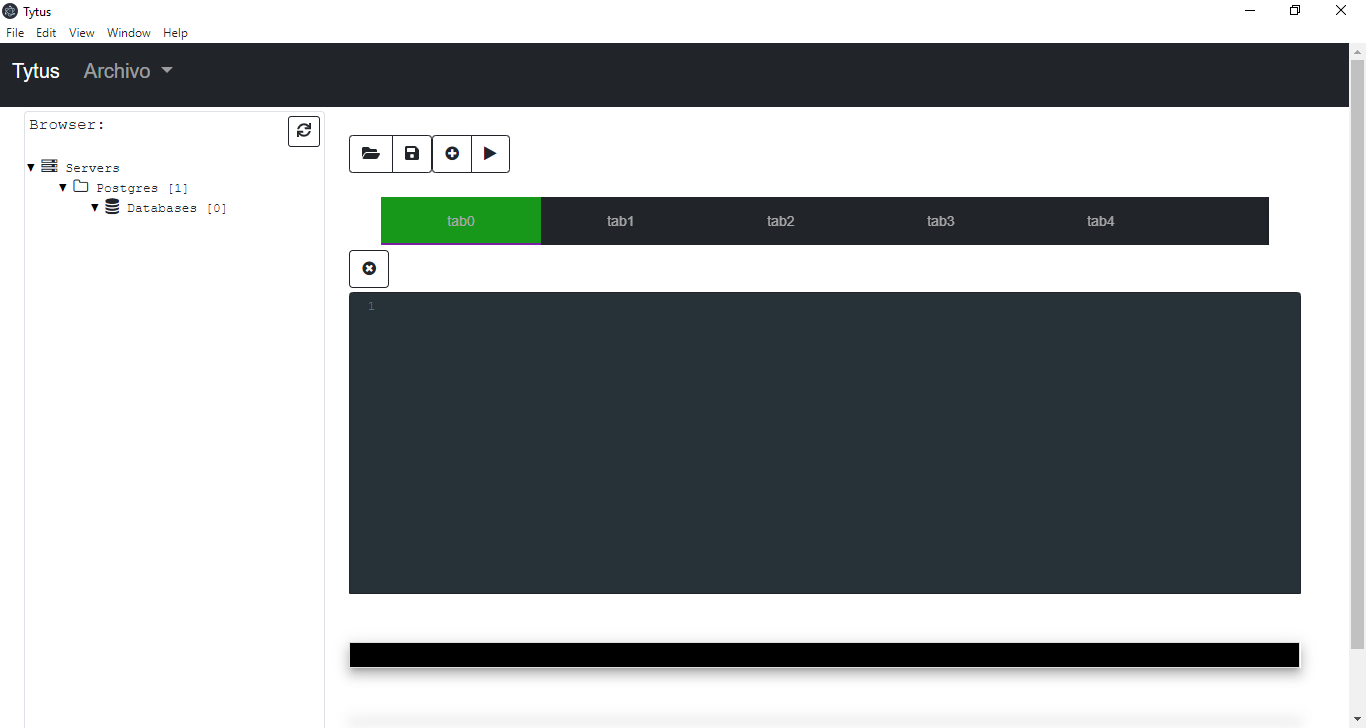
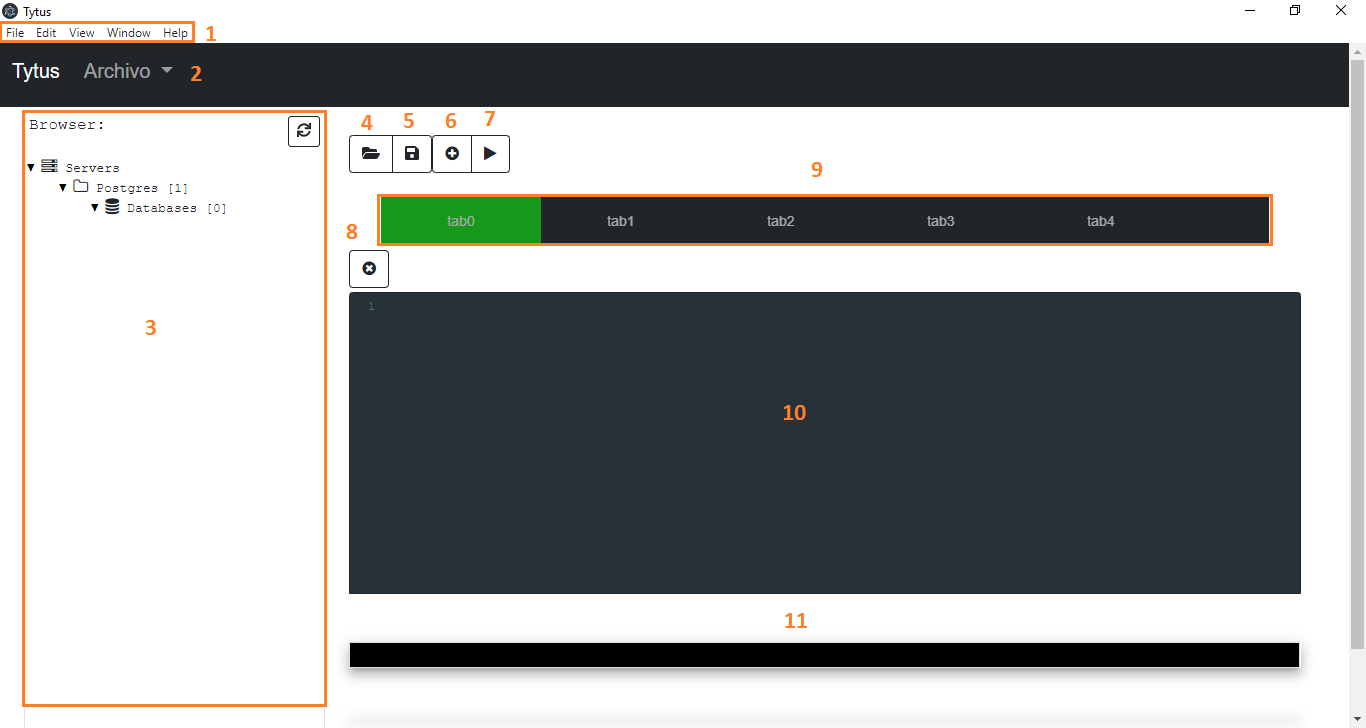
[UPDATE] Manual de Usuario

diff --git a/docs/Manual_de_usuario.md b/docs/Manual_de_usuario.md
@@ -12,18 +12,21 @@ Una vez con todos los archivos instalados deberá ejecutar el servidor, dentro d
 ## Componentes de la Interfaz <a name="interfaz"></a>
 
 La aplicación cuenta con una interfaz intuitiva, algunos de sus componentes listados a continuación:
- - **Barra superior de pestañas**: en la parte superior se tienen diversas pestañas con distintas funcionalidades que podrán ser de utilidad para el usuario.
- - **Archivo**: esta pestaña le permite crear una base de datos con mayor facilidad.
- - **Barra lateral**: en la barra izquierda podrá encontrar un esquema del servidor, las bases de datos creados sus tablas y campos. En esta barra encontrará un botón de actualización que le permitira visualizar  los cambios mas recientes sobre el esquema. 
- - **Botón para guardar archivo**: podra guardar el trabajo que haya realizado en el editor.
- - **Botón para cargar archivo**: podra importar al editor de código cualquier archio con extensión .sql que haya guardado previamente, o que desee probar.
- - **Botón para agregar pestaña**: puede agregar multiples pestañas de editor, para trabajar en distintos archivos, o simplemente consultarlos.
- - **Editor de lenguaje SQL**: espacio de trabajo para consultas, creaciones, actualizaciones, etc.
- - **Consola de Salida**: en este apartado podrá verificar los resultados de las acciones realizadas.
+ 1. **Barra superior de pestañas**: en la parte superior se tienen diversas pestañas con distintas funcionalidades que podrán ser de utilidad para el usuario.
+ 2. **Archivo**: esta pestaña le permite crear una base de datos con mayor facilidad. [Ver ejemplo](#ejemplo)
+ 3. **Barra lateral**: en la barra izquierda podrá encontrar un esquema del servidor, las bases de datos creados sus tablas y campos. En esta barra encontrará un botón de actualización que le permitira visualizar  los cambios mas recientes sobre el esquema. 
+ 4. **Botón para cargar archivo**: podra importar al editor de código cualquier archio con extensión .sql que haya guardado previamente, o que desee probar.
+ 5. **Botón para guardar archivo**: podra guardar el trabajo que haya realizado en el editor.
+ 6. **Botón para agregar pestaña**: puede agregar multiples pestañas de editor, para trabajar en distintos archivos, o simplemente consultarlos.
+ 7. **Botón para ejecutar**: podrá correr los comandos exisitentes en el editor (pestaña actual).
+ 8. **Botón para limpiar editor**: podrá limpiar rapidamente en codigo existente en el editor (pestaña actual).
+ 9. **Barra de pestañas**: podrá seleccionar la pestaña en la que desea trabajar. Así mismo podrá colocar código en cualquiera ejecutando solo la que desee.
+ 10. **Editor de lenguaje SQL**: espacio de trabajo para consultas, creaciones, actualizaciones, etc.
+ 11. **Consola de Salida**: en este apartado podrá verificar los resultados de las acciones realizadas.
 
 <div align="center">
-    <img src="./assets/img/Manual_Usuario/interfaz.PNG" width="800">
-    <p align="center"> Interfaz </p>
+    <img src="./assets/img/Manual_Usuario/interfaz.PNG" width="1000">
+    <p align="center"> Interfaz y sus componentes </p>
 </div>
 
 <br>
@@ -34,34 +37,37 @@ Con el fin de facilitar la interacción del usuario con el DBMS TytusDB a contin
 
 | No. |      Función      |         Sintaxis        | Disponible | No Disponible | Observaciones |
 |:---:|:-------------------:|:---------------------:|:----------:|:-------------:|:-------------:|
-|  1  | Create Database     | CREATE DATABASE dbname;   |      X     |               |[Variacion](#variacion)|
-|  2  | Show Databases      | SHOW DATABASES;           |      X     |               |               |
-|  2  | Use Database        | USE DATABASE dbname;      |      X     |               |               |
-|  3  | Alter Database      |            -              |            |       X       | En desarrollo |
-|  4  | Drop Database       | DROP DATABASE dbname;     |      X     |               |               |
-|  5  | Create Table        | CREATE TABLE tbname(cols);|      X     |               |[Variacion](#variacion)|
-|  6  | Show Tables         | SHOW TABLES;              |      X     |               |               |
-|  7  | Extract Table       |                          |      X     |               |               |
-|  8  | Extract Range Table |            -             |            |       X       | En desarrollo |
-|  9  | Alter Add PK        |                          |            |               |               |
-|  10 | Alter Drop PK       |                          |            |               |               |
-|  11 | Alter Add FK        |                          |            |               |               |
-|  12 | Alter Add Index     |                          |            |               |               |
-|  13 | Alter Table         |                          |            |               |               |
-|  14 | Alter Add Column    |                          |            |               |               |
-|  15 | Alter Drop Column   |                          |            |               |               |
-|  16 | Drop Table          | DROP TABLE tbname;       |      X     |               |               |
-|  17 | Insert              |                          |            |               |               |
-|  18 | Load CSV            |            -             |            |       X       |               |
-|  19 | Extract Row         |            -             |            |       X       |               |
-|  20 | Update              |                          |            |               |               |
-|  21 | Delete              |                          |            |               |               |
-|  22 | Truncate            |                          |            |               |               |
+|  1  | Create Database     | CREATE DATABASE dbname;                            |      X     |               |[Variacion](#variacion)|
+|  2  | Show Databases      | SHOW DATABASES;                                    |      X     |               |               |
+|  3  | Use Database        | USE DATABASE dbname;                               |      X     |               |               |
+|  4  | Alter Database      |            -                                       |            |       X       | En desarrollo |
+|  5  | Drop Database       | DROP DATABASE dbname;                              |      X     |               |               |
+|  6  | Create Table        | CREATE TABLE tbname( *cols* );                     |      X     |               |[Variacion](#variacion)|
+|  7  | Show Tables         | SHOW TABLES;                                       |      X     |               |               |
+|  8  | Extract Table       |            -                                       |            |       X       | En desarrollo |
+|  9  | Extract Range Table |            -                                       |            |       X       | En desarrollo |
+|  10  | Alter Add PK       |            -                                       |      X     |               |Funcionamiento interno|
+|  11 | Alter Drop PK       |            -                                       |            |       X       | En desarrollo |
+|  12 | Alter Add FK        |ALTER TABLE tb1 ADD FOREIGN KEY ( ) REFERENCES tb2( ) ;|     X     |               |[Variacion](#variacion)|
+|  13 | Alter Add Index     |            -                                       |            |       X       | En desarrollo |
+|  14 | Alter Add Column    | ALTER TABLE tbname ADD COLUMN colname datatype;    |      X     |               |               |
+|  15 | Alter Drop Column   |            -                                       |            |       X       | En desarrollo |
+|  16 | Drop Table          | DROP TABLE tbname;                                 |      X     |               |               |
+|  17 | Insert              | INSERT INTO tbname ( *filds* ) VALUES ( *...* ) ;  |      X     |               |               |
+|  18 | Load CSV            |            -                                       |            |       X       |   Pendiente   |
+|  19 | Extract Row         |            -                                       |            |       X       |   Pendiente   |
+|  20 | Update              | UPDATE tbname SET *...* WHERE *...* ;              |      X     |               |               |
+|  21 | Delete              | DELETE FROM tbname WHERE *...* ;                   |      X     |               |               |
+|  22 | Truncate            |            -                                       |            |       X       | En desarrollo |
+|  23 | Select              | SELECT * FROM tbname;                              |      X     |               |               |
 
+*Nota: TytusDB Al igual que en otros DBMS es case-insensitive, las instrucciones en lenguaje SQL al igual que los identificadores pueden ser ingresados con mayúsculas y minúsculas sin afectar el resultado. Lo indispensable es el uso de punto y coma al finalizar nada instruccción.*
 
 <br>
 
-<a name="variacion"></a>**Algunas instrucciones poseen variaciones significativas en su sintaxis, se listan a continuación:**  
+###  VARIACIONES<a name="variacion"></a>  
+
+Algunas instrucciones poseen variaciones significativas en su sintaxis, se listan a continuación:  
 
  - **create database**: *CREATE DATABASE IF NOT EXIST dbname OWNER = 'root' MODE = 1;*
  - **create table**: Donde **cols** hace referencia a las columnas que tendrá la tabla. Se definen como el codigo a continuación.
@@ -73,6 +79,36 @@ Con el fin de facilitar la interacción del usuario con el DBMS TytusDB a contin
         columnName datatype [opcionality]
     ); 
     ~~~
+ - **Alter Add FK**:  Donde **tb1** y **tb2** debe ser sustituidos por el nombre de la tabla a alterar y la tabla a referencia respectivamente. Además, dentro de los parentesís **()** , se colocan los nombres de los atributos a crear y referenciar respectivamente.
 
 
-*Nota: TytusDB Al igual que en otros DBMS es case-insensitive, las instrucciones en lenguaje SQL al igual que los identificadores pueden ser ingresados con mayúsculas y minúsculas sin afectar el resultado. Lo indispensable es el uso de punto y coma al finalizar nada instruccción.*
+
+<br>
+
+###  EJEMPLOS Y RESPUESTAS<a name="ejemplo"></a>
+Con el fin de facilitar la interacción del usuario con el DBMS TytusDB a continuación se muestran ejemplos de uso y los dos tipos de respuestas que el BDMS proporciona. 
+
+- **Archivo - Crear BD**:  Se requiere el nombre de la base de datos por medio de una ventana emergente, al finalizar, el DBMS nos notificará el resultado de la forma que se muestra en la segunda imagen.
+
+<div align="center">
+    <img src="./assets/img/Manual_Usuario/CrearBDDialogo.PNG" width="800">
+</div>
+<div align="center">
+    <img src="./assets/img/Manual_Usuario/CrearBDNotif.PNG" width="800">
+    <p align="center"> Notificación Emergente </p>
+</div>
+
+<br>
+
+- **Script - Crear Database**:  Se debe ingresar el script correctamente, ejecutar el código y el DBMS nos notificará el resultado de la operación por medio de la consola.
+
+<div align="center">
+    <img src="./assets/img/Manual_Usuario/CreateDB.PNG" width="800">
+</div>  
+<br>
+<div align="center">
+    <img src="./assets/img/Manual_Usuario/CreateDBRes.PNG" width="800">
+    <p align="center"> Notificación por Consola </p>
+</div>
+
+
